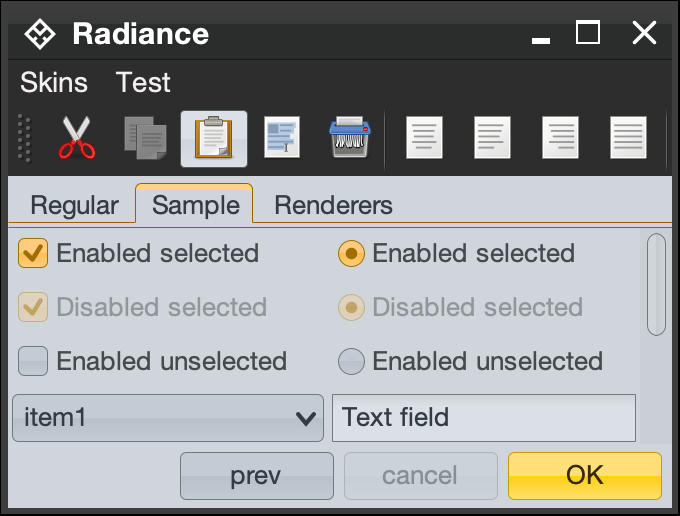
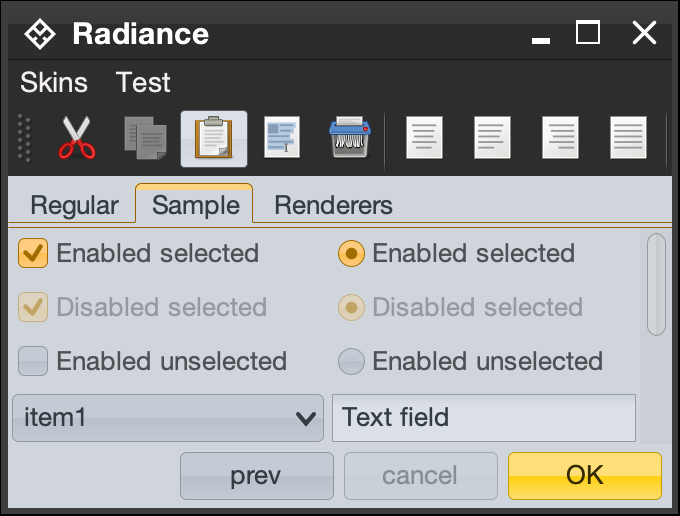
Softer outlines under Office Black 2007 skin
For #400

diff --git a/theming-extras/src/main/java/org/pushingpixels/radiance/theming/extras/api/skinpack/OfficeBlack2007Skin.java b/theming-extras/src/main/java/org/pushingpixels/radiance/theming/extras/api/skinpack/OfficeBlack2007Skin.java
@@ -76,20 +76,20 @@ public class OfficeBlack2007Skin extends RadianceSkin {
                     SchemeContainerColorsResolverOverlay.builder()
                         .onContainer(DynamicScheme::getPrimaryContainerSurfaceLowest)
                         .onContainerVariant(DynamicScheme::getPrimaryContainerSurfaceLow)
-                        .containerOutline((s) -> s.getNeutralContainerOutline() & 0x60FFFFFF)
-                        .containerOutlineVariant((s) -> s.getNeutralContainerOutlineVariant() & 0x60FFFFFF)
+                        .containerOutline((s) -> s.getNeutralContainerOutline() & 0xA0FFFFFF)
+                        .containerOutlineVariant((s) -> s.getNeutralContainerOutlineVariant() & 0xA0FFFFFF)
                         .containerOutlineDisabledAlpha((s) -> 0.75f)
                         .build())
                 .mutedContainerResolverOverlay(
                     SchemeContainerColorsResolverOverlay.builder()
-                        .containerOutline((s) -> s.getMutedContainerOutline() & 0x60FFFFFF)
-                        .containerOutlineVariant((s) -> s.getMutedContainerOutlineVariant() & 0x60FFFFFF)
+                        .containerOutline((s) -> s.getMutedContainerOutline() & 0xA0FFFFFF)
+                        .containerOutlineVariant((s) -> s.getMutedContainerOutlineVariant() & 0xA0FFFFFF)
                         .containerOutlineDisabledAlpha((s) -> 0.75f)
                         .build())
                 .tonalContainerResolverOverlay(
                     SchemeContainerColorsResolverOverlay.builder()
-                        .containerOutline((s) -> s.getTonalContainerOutline() & 0x60FFFFFF)
-                        .containerOutlineVariant((s) -> s.getTonalContainerOutlineVariant() & 0x60FFFFFF)
+                        .containerOutline((s) -> s.getTonalContainerOutline() & 0xA0FFFFFF)
+                        .containerOutlineVariant((s) -> s.getTonalContainerOutlineVariant() & 0xA0FFFFFF)
                         .containerOutlineDisabledAlpha((s) -> 0.75f)
                         .build())
                 .build());
@@ -98,7 +98,16 @@ public class OfficeBlack2007Skin extends RadianceSkin {
             /* palettesSource */ new ColorSchemeUtils.FidelityPaletteSource(
                 Hct.fromInt(0xFFC6CACF), Hct.fromInt(0xFFB8C0C9), Hct.fromInt(0xFFCFD5DA)),
             /* activeStatesContainerType */ RadianceThemingSlices.ActiveContainerType.TONAL,
-            /* isDark */ false);
+            /* isPrimaryDark */ false,
+            /* isTonalDark */ false,
+            /* isMutedDark */ false,
+            /* isNeutralDark */ false,
+            /* isSystemDark */ false,
+            /* primaryContrastLevel */ 0.0f,
+            /* tonalContrastLevel */ 0.0f,
+            /* mutedContrastLevel */ 0.0f,
+            /* neutralContrastLevel */ 0.0f,
+            /* schemeColorResolver */ officeBlackSchemeColorResolver);
         RadianceColorSchemeBundle officeBlackDefaultBundle =
             new RadianceColorSchemeBundle(officeBlackColorScheme);
 
